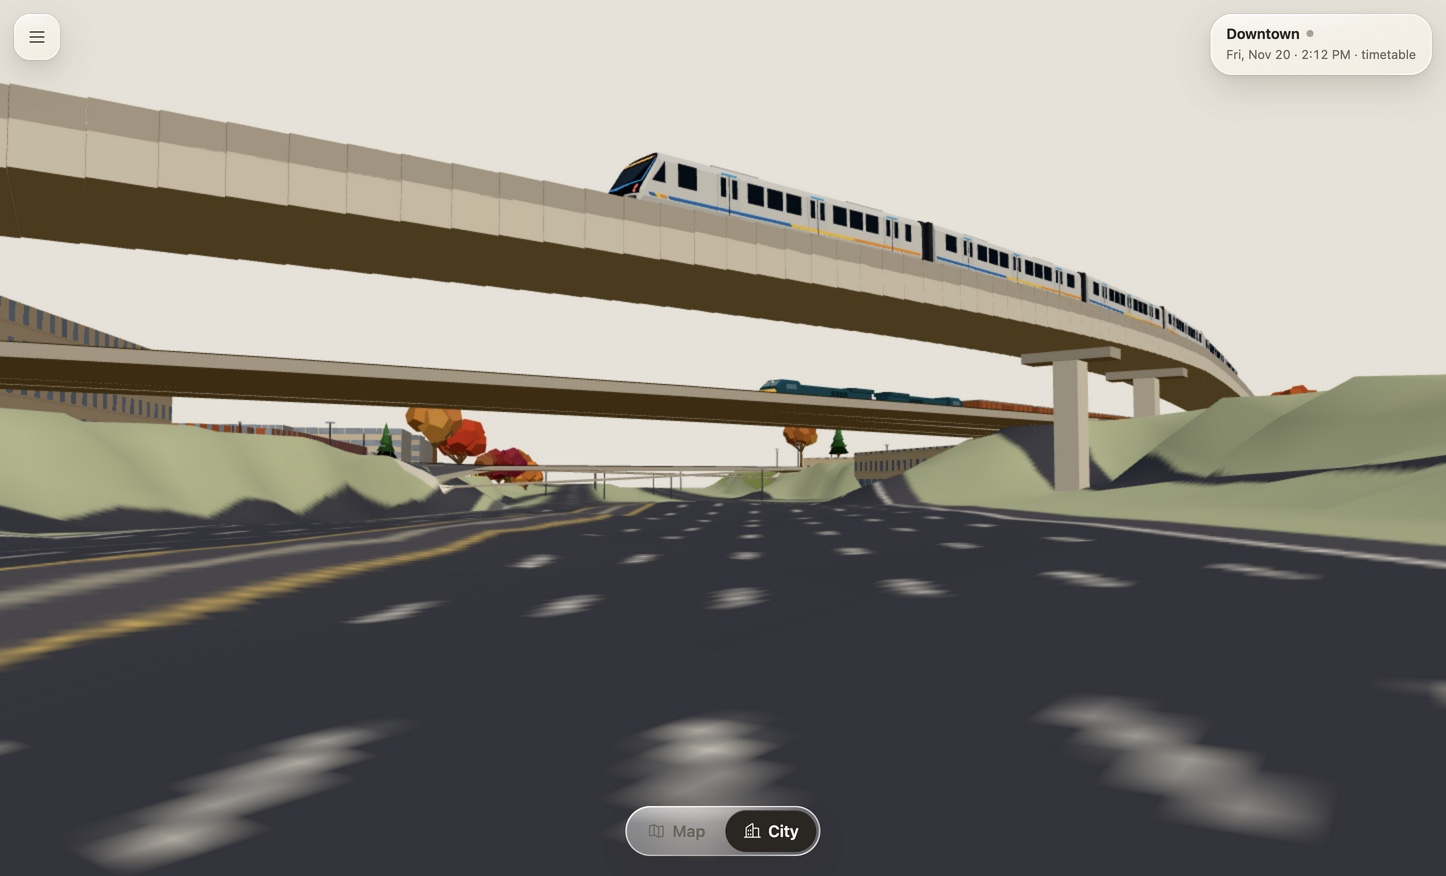
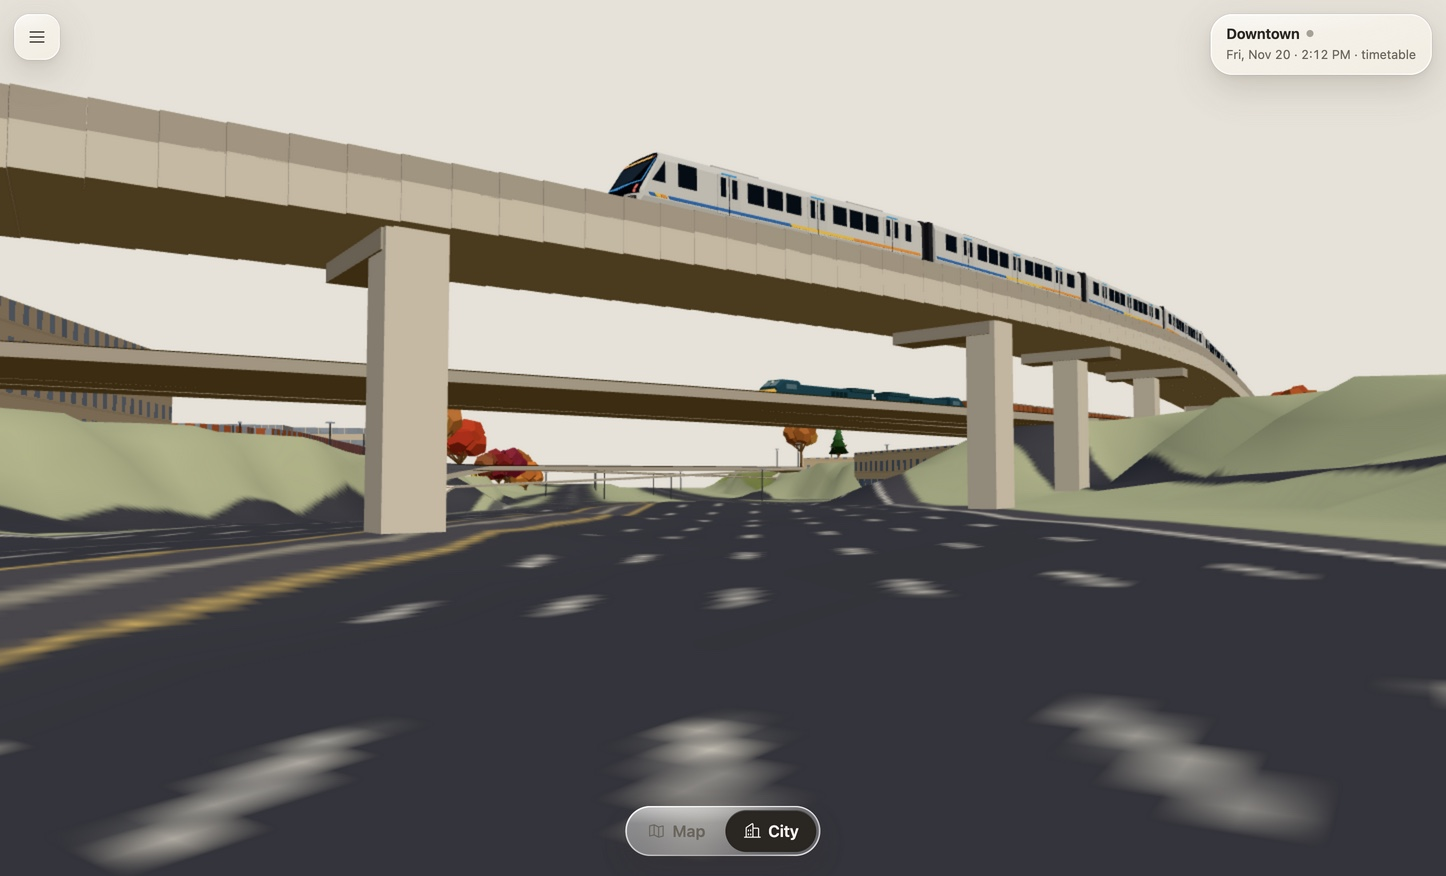
Find safe median and bank supports between regular viaduct stations

Changed region(s): [[0.2178, 0.2466, 0.3112, 0.6164], [0.6224, 0.3699, 0.7158, 0.5856]]

diff --git a/web/src/vignette/world.ts b/web/src/vignette/world.ts
@@ -702,22 +702,28 @@ export class World {
       if (atStart) portal(sv, false);
       if (atEnd) portal(s1, true);
       // Viaduct: box-girder deck, parapets and piers wherever the track is well above ground.
+      let lastPierS = -Infinity, seekingPier = false;
       for (let s = sv; s < s1; s += 2) {
         const p = m.line.at(s);
         const e = ey(s);
         const g = this.ground(p.x, p.z);
-        if (e - g < 2.2) continue;
+        if (e - g < 2.2) { seekingPier = false; continue; }
         const rot = new THREE.Matrix4().makeRotationY(Math.atan2(p.dx, p.dz)).setPosition(p.x, 0, p.z);
         b.box(10.4, 1.6, 2.02, 0, e - 0.75, 0, PAL.concrete, rot);
         for (const d of [-5.05, 5.05]) b.box(0.3, 1.1, 2.02, d, e + 0.55, 0, PAL.concreteDark, rot);
-        if (Math.round(s) % 26 === 0 || Math.round(s) % 26 === 1) {
+        // If the nominal station falls in a travel lane, keep looking along the
+        // deck for the next safe bank or median. Keep adjacent piers apart.
+        if (Math.round(s) % 26 < 2) seekingPier = true;
+        if (seekingPier && s - lastPierS >= 14) {
           const offset = pierAllowed
             ? [0, -3.2, 3.2].find(d => pierAllowed(p.x + d * p.nx, p.z + d * p.nz))
             : 0;
-          if (offset === undefined) continue; // span lower tracks between supported locations
+          if (offset === undefined) continue;
           const base = offset ? this.ground(p.x + offset * p.nx, p.z + offset * p.nz) : g;
           const hgt = e - 1.55 - base;
           if (hgt <= 0) continue;
+          seekingPier = false;
+          lastPierS = s;
           b.box(2.2, hgt, 2.6, offset, base + hgt / 2, 0, PAL.concrete, rot);
           b.box(8, 1.0, 2.8, 0, e - 2.0, 0, PAL.concreteDark, rot); // pier cap
         }

diff --git a/web/src/vignette/world.test.ts b/web/src/vignette/world.test.ts
@@ -62,3 +62,19 @@ it('keeps a viaduct pier off the lower freight track and places its column besid
   expect(columnBaseX.length).toBeGreaterThan(0);
   expect(Math.max(...columnBaseX)).toBeLessThan(-2);
 });
+
+it('finds a narrow median between the regularly spaced viaduct stations', () => {
+  const w = new World(data, null, { terrain: 'flat', clumps: 1, lightMapMax: 256 });
+  const viaduct = { line: new Line([[0, 0], [0, 90]]), elev: () => 8 };
+  w.buildMarta(viaduct, (_x, z) => z <= 4 || (z >= 37 && z <= 41) || z >= 75);
+  const pos = (w.group.children[0] as THREE.Mesh).geometry.attributes.position;
+  const medianFoot: number[] = [];
+  for (let i = 0; i < pos.count; i++) {
+    if (Math.abs(pos.getY(i)) < .001 && pos.getZ(i) > 10 && pos.getZ(i) < 70) {
+      medianFoot.push(pos.getZ(i));
+    }
+  }
+  expect(medianFoot.length).toBeGreaterThan(0);
+  expect(Math.min(...medianFoot)).toBeGreaterThan(35);
+  expect(Math.max(...medianFoot)).toBeLessThan(43);
+});

diff --git a/docs/build-log.md b/docs/build-log.md
@@ -1303,6 +1303,6 @@ checked it against imagery yet.
 
 The aerial put about 24–25 m between the inside and outside stripes of each carriageway. City had allowed 14 m for each mainline. We painted the two measured sections 153 m apart, joined their edges under the bridges and tapered the pavement back into the mapped roads over 60 m at each end. Seven inferred lane centres per direction now give the pavement markings and future traffic a common set of coordinates. The two northbound feeder lanes peel away from the through lanes at the south end of the comparison. [Aerial and lane evidence](connector-road-footprint.md) · [Before](log/ui/2026-11-21-connector-before.jpg) · [After at the same instant](log/ui/2026-11-21-connector-after.jpg)
 
-From above, the crossing looked ready. From 2.2 m above the northbound pavement, the new stripes ran straight into a MARTA bridge column. We checked the footprint of each schematic support against the travel lanes and found six street lights still standing on the old shoulders inside the new roadway. The road-level view now shows clear lanes under the freight and MARTA decks. This view records the geometry before the traffic animation. [View from the highway](log/ui/2026-11-21-connector-road-view.jpg)
+From above, the crossing looked ready. From 2.2 m above the northbound pavement, the new stripes ran straight into a MARTA bridge column. We checked the footprint of each schematic support against the travel lanes and found six street lights still standing on the old shoulders inside the new roadway. Keeping the old 26 m spacing would have left 103 m between piers. Searching along the deck found two clear sites, including the median, and reduced the longest of those three spans to about 42 m. These are distances in the model. This view records the geometry before the traffic animation. [South taper and feeder](log/ui/2026-11-21-connector-south-taper.jpg) · [View from the highway](log/ui/2026-11-21-connector-road-view.jpg)
 
-The low-quality opening view on a physical Galaxy A16 averaged **53.45 fps** across three consecutive eight-second foreground windows (53.49, 53.62 and 53.25 fps) at 384 × 692. Both quality tiers use the same lane coordinates, painted into the existing ground texture when City opens.
+The low-quality opening view on a physical Galaxy A16 averaged **50.18 fps** across three consecutive eight-second foreground windows (52.42, 48.25 and 49.86 fps) at 384 × 692. Both quality tiers use the same lane coordinates, painted into the existing ground texture when City opens.
